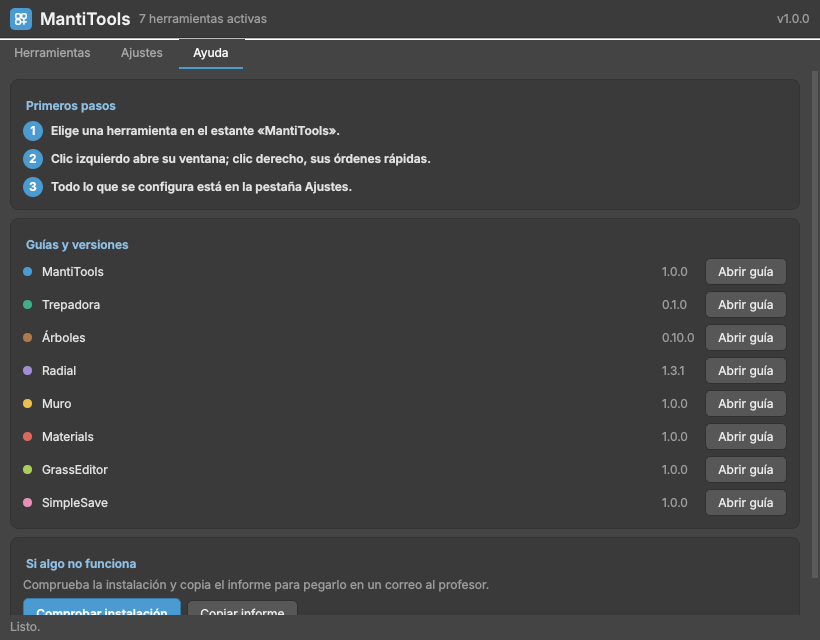
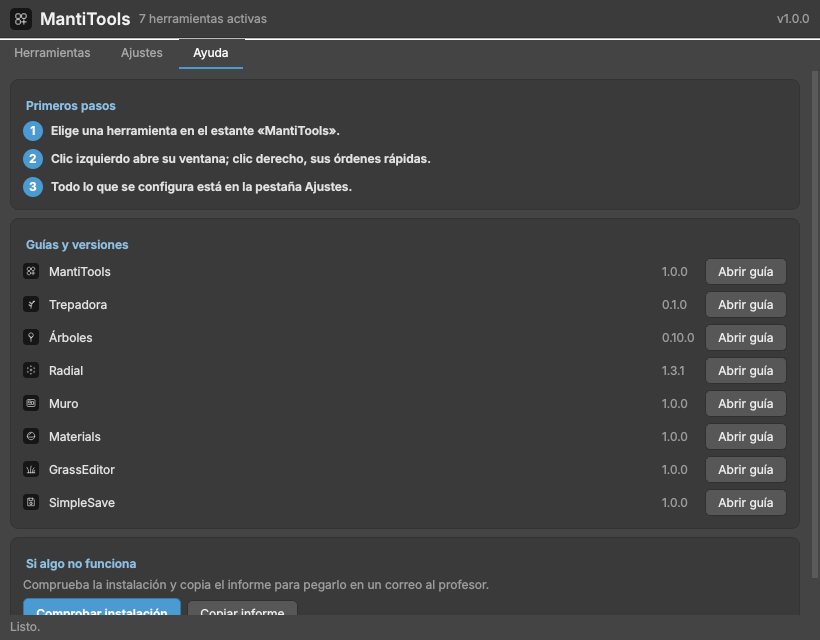
Iconos en negro y blanco con línea fina (propuesta A2): estante, tarjetas, ajustes y ayuda sin colores por herramienta
Claude-Session: https://claude.ai/code/session_01HJFktWRJjNRNFsuxSJ5fF5

Changed region(s): [[0.0305, 0.4062, 0.1524, 0.8125], [0.0, 0.0, 0.061, 0.0625]]

diff --git a/scripts/mantitools/centro.py b/scripts/mantitools/centro.py
@@ -102,8 +102,8 @@ class Servicios(object):
 
 # --- Piezas ----------------------------------------------------------------------------------
 
-def _icono(ident, lado, color="#ffffff", fondo=None):
-    mapa = iconos.pixmap(ident, lado, color=color, fondo=fondo)
+def _icono(ident, lado, color=iconos.TRAZO, fondo=None, grosor=iconos.GROSOR_TARJETA):
+    mapa = iconos.pixmap(ident, lado, color=color, fondo=fondo, grosor=grosor)
     etiqueta = QtWidgets.QLabel()
     etiqueta.setAlignment(Qt.AlignCenter)
     if mapa is not None:
@@ -124,16 +124,14 @@ class TarjetaHerramienta(QtWidgets.QFrame):
         capa.setSpacing(0)
         mini = QtWidgets.QFrame()
         mini.setFixedHeight(74)
-        c = QtGui.QColor(ficha.color)
-        mini.setStyleSheet("background: qlineargradient(x1:0, y1:0, x2:0.6, y2:1, stop:0 rgba({},{},{},70), "
-                           "stop:1 #333333); border-top-left-radius: 8px; border-top-right-radius: 8px;"
-                           .format(c.red(), c.green(), c.blue()))
+        mini.setStyleSheet("background: {}; border-top-left-radius: 8px; border-top-right-radius: 8px;"
+                           .format(iconos.FONDO_TARJETA))
         fila_mini = QtWidgets.QHBoxLayout(mini)
-        fila_mini.addWidget(_icono(ficha.id, 40, color=ficha.color))
+        fila_mini.addWidget(_icono(ficha.id, 40, color="#f2f2f2"))
         capa.addWidget(mini)
         franja = QtWidgets.QFrame()
         estilo.rol(franja, "franja")
-        franja.setStyleSheet("background: {};".format(ficha.color))
+        franja.setStyleSheet("background: #303030;")
         capa.addWidget(franja)
         info = QtWidgets.QVBoxLayout()
         info.setContentsMargins(10, 8, 10, 10)
@@ -247,7 +245,8 @@ class PaginaAjustes(QtWidgets.QScrollArea):
         self.capa.setContentsMargins(0, 0, 6, 0)
         self.capa.setSpacing(8)
         ficha = pagina.ficha
-        cab, fila = estilo.cabecera(ficha.nombre, ficha.color, servicios.version(ficha.id))
+        cab, fila = estilo.cabecera(ficha.nombre, None, servicios.version(ficha.id))
+        fila.insertWidget(0, _icono(ficha.id, 20, fondo=iconos.FONDO, grosor=iconos.GROSOR_ESTANTE))
         cab.setStyleSheet("border-radius: 8px;")
         self.capa.addWidget(cab)
         for titulo, controles in pagina.secciones():
@@ -389,7 +388,8 @@ class PaginaGeneral(QtWidgets.QScrollArea):
         capa = QtWidgets.QVBoxLayout(contenido)
         capa.setContentsMargins(0, 0, 6, 0)
         capa.setSpacing(8)
-        cab, _ = estilo.cabecera(t("pagina_general"), hr.ACENTO, mantitools.__version__)
+        cab, fila_cab = estilo.cabecera(t("pagina_general"), None, mantitools.__version__)
+        fila_cab.insertWidget(0, _icono("centro", 20, fondo=iconos.FONDO, grosor=iconos.GROSOR_ESTANTE))
         cab.setStyleSheet("border-radius: 8px;")
         capa.addWidget(cab)
 
@@ -414,7 +414,7 @@ class PaginaGeneral(QtWidgets.QScrollArea):
         for i, ficha in enumerate(hr.FICHAS):
             fila = QtWidgets.QHBoxLayout()
             fila.setSpacing(6)
-            fila.addWidget(estilo.punto(ficha.color, 9))
+            fila.addWidget(_icono(ficha.id, 16, fondo=iconos.FONDO, grosor=iconos.GROSOR_ESTANTE))
             casilla = QtWidgets.QCheckBox(ficha.nombre)
             casilla.toggled.connect(lambda v, i=ficha.id: self._activa(i, v))
             fila.addWidget(casilla)
@@ -533,7 +533,7 @@ class VentanaCentro(QtWidgets.QWidget):
         fila = QtWidgets.QHBoxLayout(marco)
         fila.setContentsMargins(10, 8, 10, 8)
         fila.setSpacing(8)
-        fila.addWidget(_icono("centro", 22, fondo=hr.ACENTO))
+        fila.addWidget(_icono("centro", 22, fondo=iconos.FONDO, grosor=iconos.GROSOR_ESTANTE))
         fila.addWidget(estilo.etiqueta("MantiTools", "titulo"))
         self.cuenta = estilo.etiqueta("", "tenue")
         fila.addWidget(self.cuenta)
@@ -582,29 +582,22 @@ class VentanaCentro(QtWidgets.QWidget):
         fila.setSpacing(10)
         self.lista = QtWidgets.QListWidget()
         self.lista.setFixedWidth(180)
-        self.lista.setIconSize(QtCore.QSize(10, 10))
+        self.lista.setIconSize(QtCore.QSize(16, 16))
         self.pilas = QtWidgets.QStackedWidget()
         self.paginas = {}
-        self._anadir_pagina("general", t("pagina_general"), hr.ACENTO,
+        self._anadir_pagina("general", t("pagina_general"), "centro",
                             lambda: PaginaGeneral(self.servicios, self.mensaje))
         for ficha in hr.FICHAS:
-            self._anadir_pagina(ficha.id, ficha.nombre, ficha.color, lambda f=ficha: self._pagina_de(f))
+            self._anadir_pagina(ficha.id, ficha.nombre, ficha.id, lambda f=ficha: self._pagina_de(f))
         self.lista.currentRowChanged.connect(self._mostrar_pagina)
         fila.addWidget(self.lista)
         fila.addWidget(self.pilas, 1)
         self.lista.setCurrentRow(0)
         return panel
 
-    def _anadir_pagina(self, ident, texto, color, fabrica):
-        mapa = QtGui.QPixmap(10, 10)
-        mapa.fill(Qt.transparent)
-        pintor = QtGui.QPainter(mapa)
-        pintor.setRenderHint(QtGui.QPainter.Antialiasing, True)
-        pintor.setPen(Qt.NoPen)
-        pintor.setBrush(QtGui.QColor(color))
-        pintor.drawEllipse(0, 0, 10, 10)
-        pintor.end()
-        elemento = QtWidgets.QListWidgetItem(QtGui.QIcon(mapa), texto)
+    def _anadir_pagina(self, ident, texto, icono, fabrica):
+        mapa = iconos.pixmap(icono, 32, fondo=iconos.FONDO, grosor=iconos.GROSOR_ESTANTE)
+        elemento = QtWidgets.QListWidgetItem(QtGui.QIcon(mapa) if mapa is not None else QtGui.QIcon(), texto)
         elemento.setData(Qt.UserRole, ident)
         self.lista.addItem(elemento)
         hueco = QtWidgets.QWidget()
@@ -615,7 +608,7 @@ class VentanaCentro(QtWidgets.QWidget):
     def _pagina_de(self, ficha):
         if not self.servicios.activa(ficha.id) or not self.servicios.cargada(ficha.id):
             marco, capa = estilo.tarjeta(14)
-            cab, _ = estilo.cabecera(ficha.nombre, ficha.color)
+            cab, _ = estilo.cabecera(ficha.nombre)
             capa.addWidget(cab)
             texto = t("pagina_inactiva") if not self.servicios.activa(ficha.id) else t("pagina_sin_cargar")
             capa.addWidget(estilo.etiqueta(texto, "tenue", ajuste=True))
@@ -663,9 +656,9 @@ class VentanaCentro(QtWidgets.QWidget):
         c.addWidget(estilo.etiqueta(t("ayuda_guias"), "seccion"))
         rejilla = QtWidgets.QGridLayout()
         rejilla.setHorizontalSpacing(10)
-        filas = [("mantitools", "MantiTools", hr.ACENTO)] + [(f.id, f.nombre, f.color) for f in hr.FICHAS]
-        for i, (ident, nombre, color) in enumerate(filas):
-            rejilla.addWidget(estilo.punto(color, 9), i, 0)
+        filas = [("mantitools", "MantiTools", "centro")] + [(f.id, f.nombre, f.id) for f in hr.FICHAS]
+        for i, (ident, nombre, icono) in enumerate(filas):
+            rejilla.addWidget(_icono(icono, 16, fondo=iconos.FONDO, grosor=iconos.GROSOR_ESTANTE), i, 0)
             rejilla.addWidget(estilo.etiqueta(nombre), i, 1)
             version = mantitools.__version__ if ident == "mantitools" else self.servicios.version(ident)
             rejilla.addWidget(estilo.etiqueta(version or "—", "tenue"), i, 2)

diff --git a/scripts/mantitools/iconos.py b/scripts/mantitools/iconos.py
@@ -4,6 +4,14 @@ Con ellos se dibujan las tarjetas de la ventana central y se generan los PNG del
 estante (``herramientas/generar_iconos.py``).
 """
 
+# Estilo de los iconos (propuesta A2, 24-nov-2026): dibujo de línea fina blanca sobre un
+# cuadrado negro, igual en todas las herramientas; se distinguen por el dibujo, no por el color.
+FONDO = "#161616"
+TRAZO = "#ffffff"
+GROSOR_ESTANTE = 0.85
+GROSOR_TARJETA = 1.0
+FONDO_TARJETA = "#202020"
+
 TRAZOS = {
     "trepadora": '<path d="M12 21c0-6 1-10 5-14"/><path d="M14 12c-3 0-5-1.5-5.5-4 2.6-.4 4.6.8 5.5 4z"/>'
                  '<path d="M15.5 8.5c2.4.2 4-.9 4.5-3-2.2-.4-3.9.6-4.5 3z"/>'
@@ -24,7 +32,7 @@ TRAZOS = {
 }
 
 
-def svg(ident, color="#ffffff", grosor=1.7, fondo=None, radio=5):
+def svg(ident, color=TRAZO, grosor=GROSOR_TARJETA, fondo=None, radio=5):
     """El icono de ``ident`` como texto SVG. Con ``fondo``, sobre un cuadrado redondeado de ese color."""
     base = ""
     if fondo:
@@ -39,7 +47,7 @@ def svg(ident, color="#ffffff", grosor=1.7, fondo=None, radio=5):
             '</svg>').format(base, color, grosor, trazos)
 
 
-def pixmap(ident, lado, color="#ffffff", fondo=None, grosor=1.7):
+def pixmap(ident, lado, color=TRAZO, fondo=None, grosor=GROSOR_TARJETA):
     """QPixmap del icono (necesita QtSvg). None si no se puede dibujar."""
     from mantitools.qt import QtCore, QtGui, QtSvg
     if QtSvg is None:

diff --git a/herramientas/generar_iconos.py b/herramientas/generar_iconos.py
@@ -19,11 +19,9 @@ os.environ.setdefault("QT_QPA_PLATFORM", "offscreen")
 TAMANOS = (("", 32), ("_150", 48), ("_200", 64))
 
 
-def colores():
+def identificadores():
     from mantitools import herramientas as hr
-    datos = {f.id: f.color for f in hr.FICHAS}
-    datos["centro"] = hr.ACENTO
-    return datos
+    return [f.id for f in hr.FICHAS] + ["centro"]
 
 
 def generar(carpeta=None):
@@ -34,9 +32,9 @@ def generar(carpeta=None):
     if not os.path.isdir(carpeta):
         os.makedirs(carpeta)
     escritos = []
-    for ident, color in colores().items():
+    for ident in identificadores():
         for sufijo, lado in TAMANOS:
-            mapa = iconos.pixmap(ident, lado, fondo=color, grosor=1.9)
+            mapa = iconos.pixmap(ident, lado, fondo=iconos.FONDO, grosor=iconos.GROSOR_ESTANTE)
             ruta = os.path.join(carpeta, "mantitools_{}{}.png".format(ident, sufijo))
             if mapa is None or not mapa.save(ruta):
                 raise SystemExit("No se pudo escribir {}".format(ruta))
